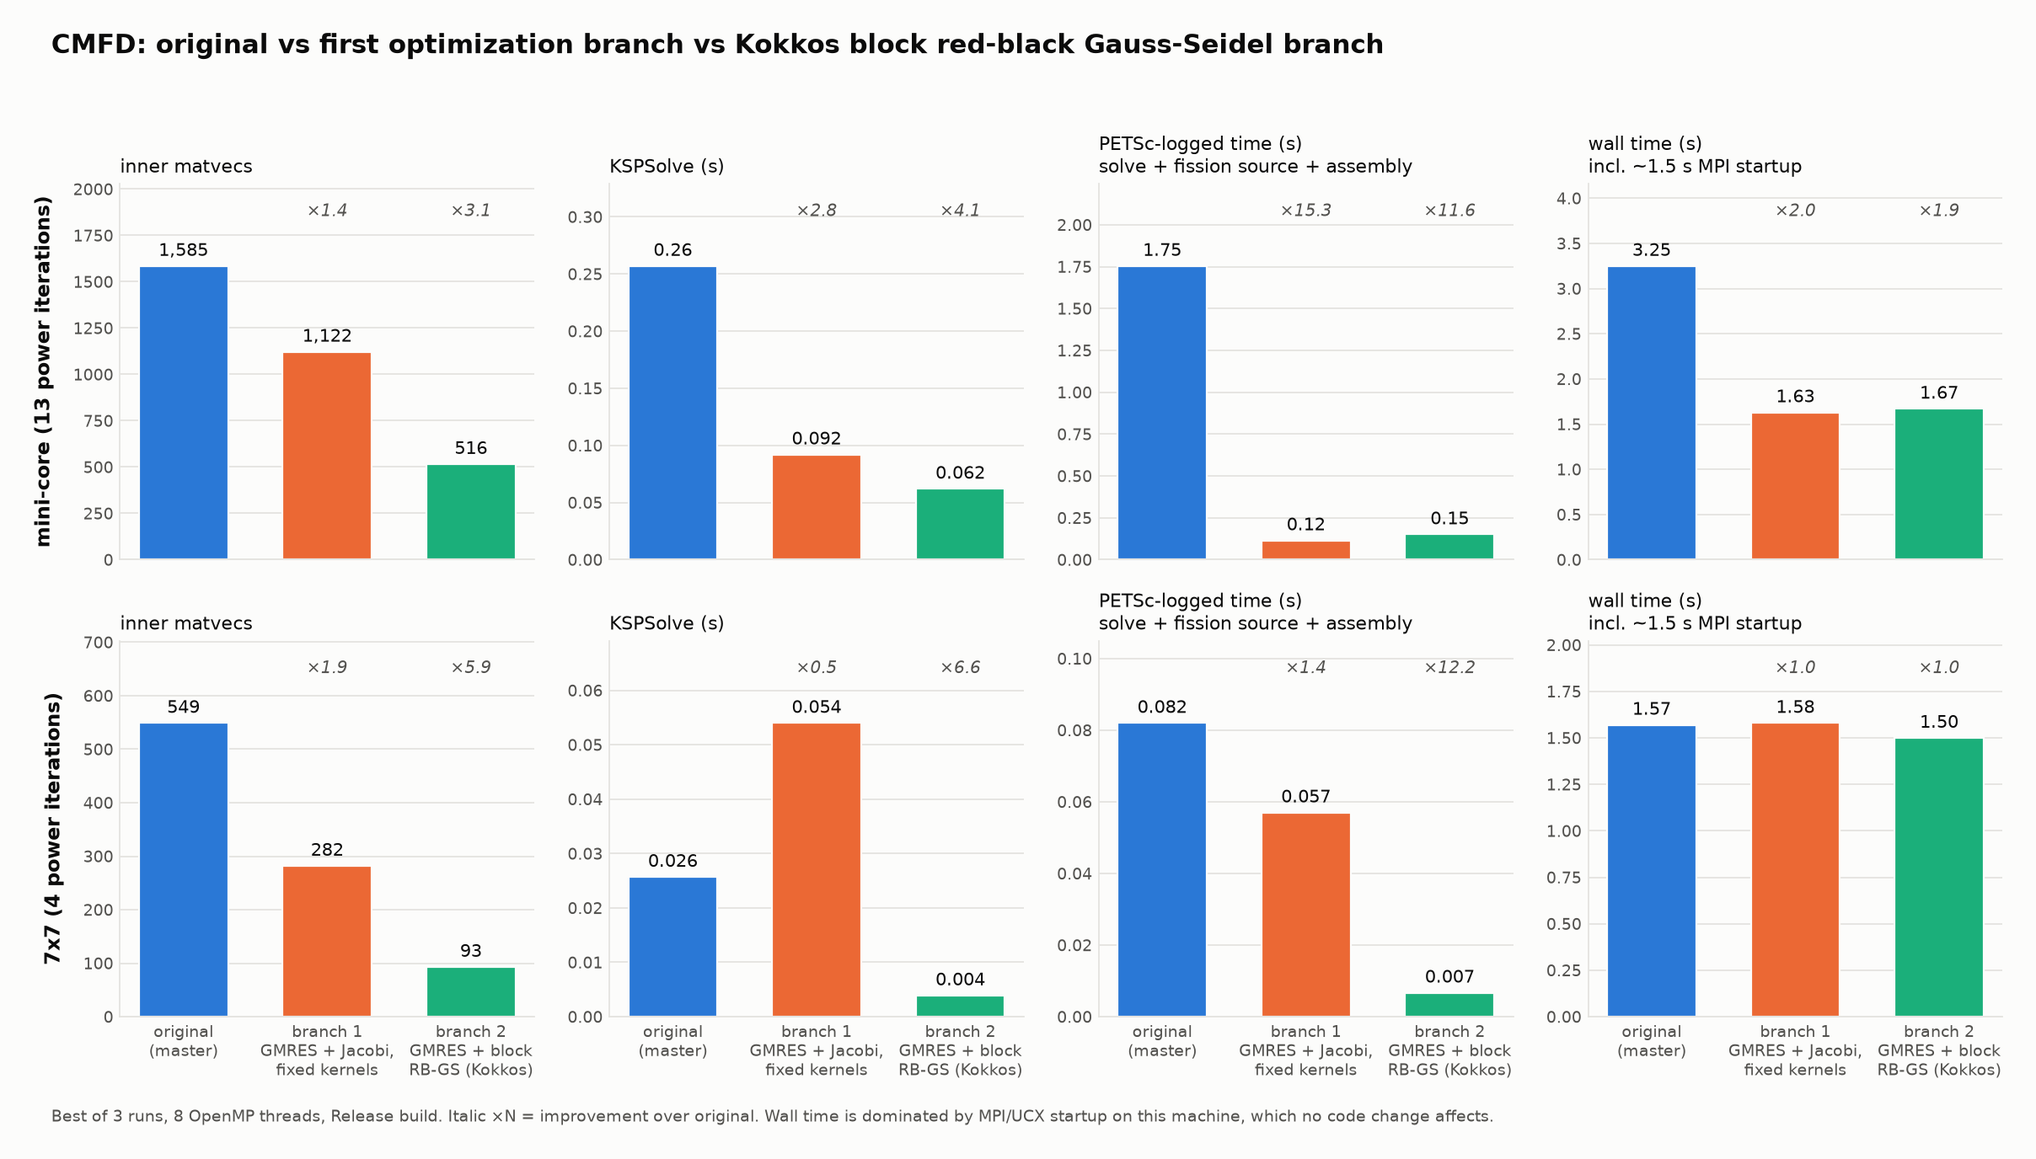
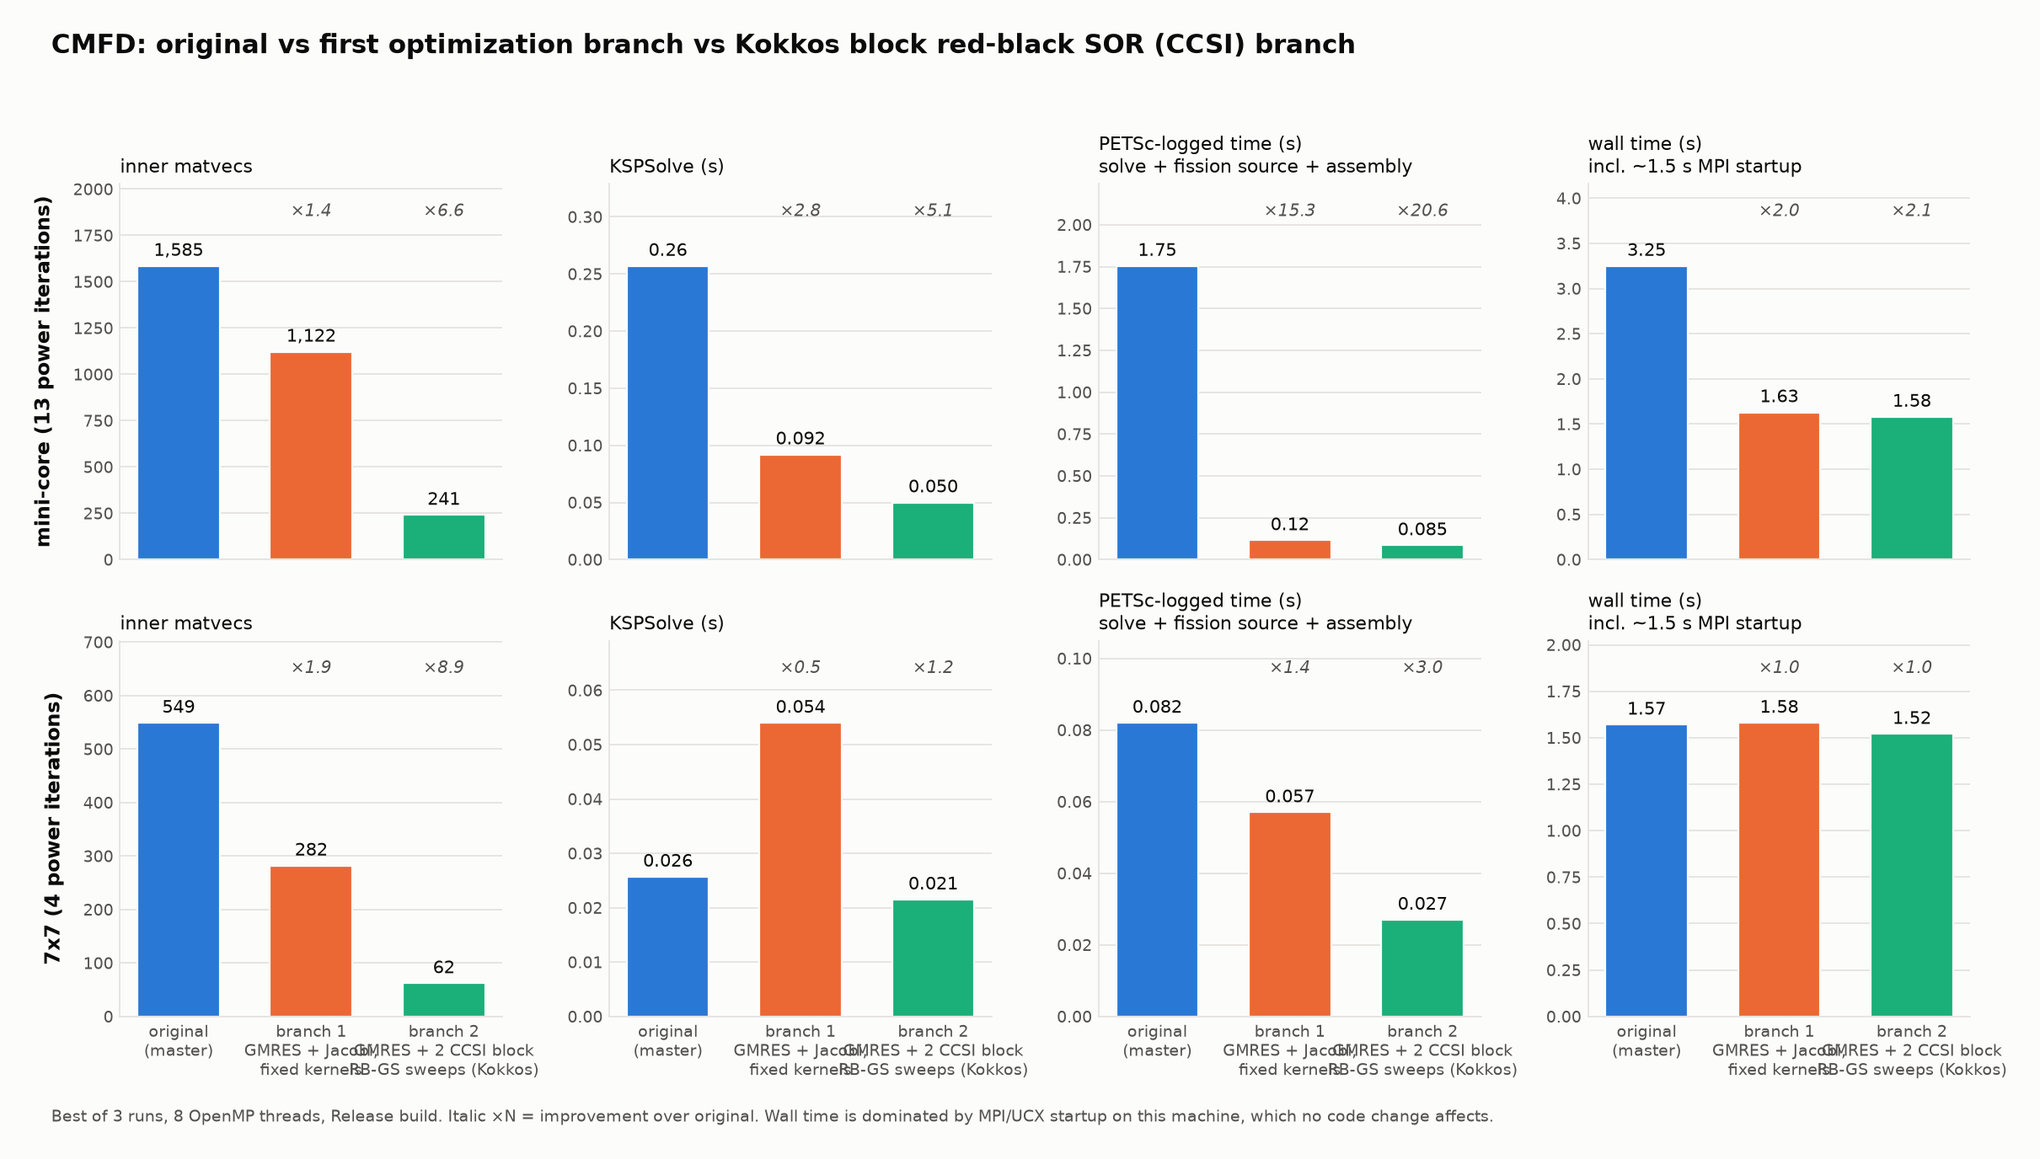
CMFD: CCSI adaptive relaxation for the Kokkos block RB-GS (MPACT RBSOR)
Follows Stimpson & Collins, "Implementation of a Red-Black SOR CMFD
Solver in MPACT" (Trans. ANS 115, 2016): separate red/black relaxation
factors from the cyclic Chebyshev semi-iterative recurrence, driven by a
Jacobi spectral radius estimated at setup from 10 unrelaxed sweeps on the
homogeneous system. Estimated rho_J = 0.977 on mini-core, asymptotic
omega 1.65, matching the manual omega scan. Falls back to a fixed omega
when the block graph needs more than two colors.

Default inner solver is now GMRES + 2 CCSI sweeps: mini-core matvecs
516 -> 241 for the same total sweep count; 10/10 CMFD tests pass.
MPACT-style mode (-ksp_type richardson -ksp_norm_type none -ksp_max_it 1
-pc_kokkosbgs_sweeps N) solves mini-core in 180-300 total sweeps; as in
the paper, too few sweeps per eigenvalue update (10 here) false-converges
the dk-based outer test, 20 or more pass the gold tests.

diff --git a/cmfd/src/KokkosBlockGS.cpp b/cmfd/src/KokkosBlockGS.cpp
@@ -6,6 +6,7 @@
 #include <petscmat.h>
 #include <Kokkos_Core.hpp>
 #include <vector>
+#include <cmath>
 #include <queue>
 #include <algorithm>
 
@@ -21,7 +22,11 @@ using Scalar2DView = Kokkos::View<PetscScalar **, Kokkos::LayoutRight, MemSpace>
 
 struct PC_KokkosBGS {
     PetscInt sweeps = 1;
-    PetscReal omega = 1.0;
+    PetscReal omega = 1.0;       // fixed relaxation factor (used when adaptive is off or ncolors != 2)
+    PetscBool adaptive = PETSC_TRUE; // CCSI red/black relaxation factors (Stimpson & Collins, ANS Trans. 115, 2016)
+    PetscInt rhoSweeps = 10;     // unrelaxed GS sweeps used to estimate the spectral radius
+    PetscReal rhoJ = 0.0;        // estimated Jacobi spectral radius
+    std::vector<PetscReal> omegaRed, omegaBlack; // CCSI schedule, one pair per sweep
 
     PetscInt n = 0, bs = 0, nblocks = 0, ncolors = 0;
     IntView rowPtr, colIdx;      // CSR structure (device copy)
@@ -30,6 +35,60 @@ struct PC_KokkosBGS {
     IntView colorBlocks;         // block indices grouped by color
     std::vector<PetscInt> colorPtr; // host offsets into colorBlocks, size ncolors + 1
 };
+
+// One relaxed block Gauss-Seidel update of all blocks of one color: y_block <- (1-w) y_block + w D^-1 (x - offblock(A) y)
+template <class XView, class YView>
+void color_sweep(const PC_KokkosBGS &ctx, PetscInt color, PetscReal omega, const XView &xv, const YView &yv)
+{
+    const PetscInt bs = ctx.bs;
+    auto rowPtr = ctx.rowPtr; auto colIdx = ctx.colIdx; auto vals = ctx.vals; auto dinv = ctx.dinv;
+    auto colorBlocks = ctx.colorBlocks;
+    const PetscInt begin = ctx.colorPtr[color], end = ctx.colorPtr[color + 1];
+    Kokkos::parallel_for("kokkosbgs: color sweep", Kokkos::RangePolicy<ExecSpace>(begin, end),
+        KOKKOS_LAMBDA(const PetscInt idx)
+    {
+        const PetscInt b = colorBlocks(idx);
+        PetscScalar rhs[MAX_BS];
+        for (int r = 0; r < bs; ++r) {
+            const PetscInt row = b * bs + r;
+            PetscScalar acc = xv(row);
+            for (PetscInt k = rowPtr(row); k < rowPtr(row + 1); ++k) {
+                const PetscInt col = colIdx(k);
+                if (col / bs != b) acc -= vals(k) * yv(col);
+            }
+            rhs[r] = acc;
+        }
+        for (int r = 0; r < bs; ++r) {
+            PetscScalar ynew = 0.0;
+            for (int cc = 0; cc < bs; ++cc) ynew += dinv(b, r * bs + cc) * rhs[cc];
+            const PetscInt row = b * bs + r;
+            yv(row) = (1.0 - omega) * yv(row) + omega * ynew;
+        }
+    });
+}
+
+// Relaxation factors for sweep s (0-based) of an application, per color. With CCSI (two colors) the red
+// and black half-sweeps get the cyclic Chebyshev factors of Eqs. 2-3 in Stimpson & Collins (2016):
+//   w_R^1 = 1, w_B^1 = 1 / (1 - rho_J^2 / 2),
+//   w_R^{i+1} = 1 / (1 - rho_J^2 w_B^i / 4), w_B^{i+1} = 1 / (1 - rho_J^2 w_R^{i+1} / 4),
+// which converge to the optimal SOR factor 2 / (1 + sqrt(1 - rho_J^2)).
+void ensure_omega_schedule(PC_KokkosBGS &ctx, PetscInt sweeps)
+{
+    if ((PetscInt)ctx.omegaRed.size() >= sweeps) return;
+    const PetscReal r2 = ctx.rhoJ * ctx.rhoJ;
+    if (ctx.omegaRed.empty()) {
+        ctx.omegaRed.push_back(1.0);
+        ctx.omegaBlack.push_back(1.0 / (1.0 - 0.5 * r2));
+    }
+    while ((PetscInt)ctx.omegaRed.size() < sweeps) {
+        const PetscReal wR = 1.0 / (1.0 - 0.25 * r2 * ctx.omegaBlack.back());
+        const PetscReal wB = 1.0 / (1.0 - 0.25 * r2 * wR);
+        ctx.omegaRed.push_back(wR);
+        ctx.omegaBlack.push_back(wB);
+    }
+}
+
+inline bool use_ccsi(const PC_KokkosBGS &ctx) { return ctx.adaptive && ctx.ncolors == 2; }
 
 PetscErrorCode PCSetUp_KokkosBGS(PC pc)
 {
@@ -153,6 +212,36 @@ PetscErrorCode PCSetUp_KokkosBGS(PC pc)
         });
         Kokkos::fence();
     }
+
+    // Estimate the Jacobi spectral radius for the CCSI relaxation factors. Unrelaxed red-black block GS on
+    // the homogeneous system A e = 0 from a constant start decays like rho_GS^k, and for a two-color
+    // (consistently ordered) system rho_J = sqrt(rho_GS). As in MPACT the estimate uses the ratio of the
+    // last two correction norms after `rhoSweeps` sweeps. Done once per matrix; only setup needs reductions.
+    ctx->omegaRed.clear();
+    ctx->omegaBlack.clear();
+    ctx->rhoJ = 0.0;
+    if (use_ccsi(*ctx)) {
+        ScalarView e("kokkosbgs rho estimate", ctx->n), zero("kokkosbgs zero rhs", ctx->n);
+        Kokkos::deep_copy(e, 1.0);
+        Kokkos::deep_copy(zero, 0.0);
+        auto norm2 = [&](const ScalarView &v) {
+            PetscReal sum = 0.0;
+            Kokkos::parallel_reduce("kokkosbgs: norm", Kokkos::RangePolicy<ExecSpace>(0, ctx->n),
+                KOKKOS_LAMBDA(const PetscInt i, PetscReal &acc) { acc += v(i) * v(i); }, sum);
+            return std::sqrt(sum);
+        };
+        PetscReal prev = norm2(e), rhoGS = 0.0;
+        for (PetscInt s = 0; s < ctx->rhoSweeps; ++s) {
+            for (PetscInt c = 0; c < ctx->ncolors; ++c) color_sweep(*ctx, c, 1.0, zero, e);
+            const PetscReal cur = norm2(e);
+            if (prev > 0.0) rhoGS = cur / prev;
+            prev = cur;
+        }
+        rhoGS = std::min(std::max(rhoGS, 0.0), 0.999999);
+        ctx->rhoJ = std::sqrt(rhoGS);
+        PetscCall(PetscInfo(pc, "kokkosbgs: estimated rho_GS = %g, rho_J = %g, asymptotic omega = %g\n",
+                            (double)rhoGS, (double)ctx->rhoJ, (double)(2.0 / (1.0 + std::sqrt(1.0 - rhoGS)))));
+    }
     PetscFunctionReturn(PETSC_SUCCESS);
 }
 
@@ -166,37 +255,17 @@ PetscErrorCode PCApply_KokkosBGS(PC pc, Vec x, Vec y)
     PetscCall(VecGetKokkosView(x, &xv));
     PetscCall(VecGetKokkosViewWrite(y, &yv));
 
-    // y = 0; then `sweeps` block-SOR sweeps on A y = x. A fixed number of sweeps from zero is a fixed
-    // linear operator, so this is a valid (non-symmetric) preconditioner for GMRES/BiCGStab.
+    // y = 0; then `sweeps` block-SOR sweeps on A y = x. A fixed number of sweeps from zero (with a
+    // predetermined relaxation schedule) is a fixed linear operator, so this is a valid (non-symmetric)
+    // preconditioner for GMRES/BiCGStab. With -ksp_type richardson -ksp_max_it 1 it is the whole inner
+    // solve, and the CCSI schedule then runs over all `sweeps` half-sweep pairs as in MPACT.
     Kokkos::deep_copy(yv, 0.0);
-    const PetscInt bs = ctx->bs;
-    const PetscReal omega = ctx->omega;
-    auto rowPtr = ctx->rowPtr; auto colIdx = ctx->colIdx; auto vals = ctx->vals; auto dinv = ctx->dinv;
-    auto colorBlocks = ctx->colorBlocks;
+    const bool ccsi = use_ccsi(*ctx);
+    if (ccsi) ensure_omega_schedule(*ctx, ctx->sweeps);
     for (PetscInt s = 0; s < ctx->sweeps; ++s) {
         for (PetscInt c = 0; c < ctx->ncolors; ++c) {
-            const PetscInt begin = ctx->colorPtr[c], end = ctx->colorPtr[c + 1];
-            Kokkos::parallel_for("kokkosbgs: color sweep", Kokkos::RangePolicy<ExecSpace>(begin, end),
-                KOKKOS_LAMBDA(const PetscInt idx)
-            {
-                const PetscInt b = colorBlocks(idx);
-                PetscScalar rhs[MAX_BS];
-                for (int r = 0; r < bs; ++r) {
-                    const PetscInt row = b * bs + r;
-                    PetscScalar acc = xv(row);
-                    for (PetscInt k = rowPtr(row); k < rowPtr(row + 1); ++k) {
-                        const PetscInt col = colIdx(k);
-                        if (col / bs != b) acc -= vals(k) * yv(col);
-                    }
-                    rhs[r] = acc;
-                }
-                for (int r = 0; r < bs; ++r) {
-                    PetscScalar ynew = 0.0;
-                    for (int cc = 0; cc < bs; ++cc) ynew += dinv(b, r * bs + cc) * rhs[cc];
-                    const PetscInt row = b * bs + r;
-                    yv(row) = (1.0 - omega) * yv(row) + omega * ynew;
-                }
-            });
+            const PetscReal omega = ccsi ? (c == 0 ? ctx->omegaRed[s] : ctx->omegaBlack[s]) : ctx->omega;
+            color_sweep(*ctx, c, omega, xv, yv);
         }
     }
     Kokkos::fence();
@@ -212,7 +281,9 @@ PetscErrorCode PCSetFromOptions_KokkosBGS(PC pc, PetscOptionItems PetscOptionsOb
     PetscFunctionBeginUser;
     PetscOptionsHeadBegin(PetscOptionsObject, "Kokkos block red-black Gauss-Seidel options");
     PetscCall(PetscOptionsInt("-pc_kokkosbgs_sweeps", "Number of block SOR sweeps per application", "", ctx->sweeps, &ctx->sweeps, nullptr));
-    PetscCall(PetscOptionsReal("-pc_kokkosbgs_omega", "SOR relaxation factor", "", ctx->omega, &ctx->omega, nullptr));
+    PetscCall(PetscOptionsBool("-pc_kokkosbgs_adaptive", "Use CCSI red/black relaxation factors from an estimated spectral radius", "", ctx->adaptive, &ctx->adaptive, nullptr));
+    PetscCall(PetscOptionsReal("-pc_kokkosbgs_omega", "Fixed SOR relaxation factor (when adaptive is off)", "", ctx->omega, &ctx->omega, nullptr));
+    PetscCall(PetscOptionsInt("-pc_kokkosbgs_rho_sweeps", "Unrelaxed sweeps used to estimate the spectral radius", "", ctx->rhoSweeps, &ctx->rhoSweeps, nullptr));
     PetscOptionsHeadEnd();
     PetscFunctionReturn(PETSC_SUCCESS);
 }
@@ -224,8 +295,14 @@ PetscErrorCode PCView_KokkosBGS(PC pc, PetscViewer viewer)
     PetscFunctionBeginUser;
     PetscCall(PetscObjectTypeCompare((PetscObject)viewer, PETSCVIEWERASCII, &isascii));
     if (isascii) {
-        PetscCall(PetscViewerASCIIPrintf(viewer, "  Kokkos block red-black Gauss-Seidel: block size %d, %d colors, %d sweeps, omega %g\n",
-                                         (int)ctx->bs, (int)ctx->ncolors, (int)ctx->sweeps, (double)ctx->omega));
+        if (use_ccsi(*ctx)) {
+            ensure_omega_schedule(*ctx, ctx->sweeps);
+            PetscCall(PetscViewerASCIIPrintf(viewer, "  Kokkos block red-black Gauss-Seidel: block size %d, %d colors, %d sweeps, CCSI relaxation (rho_J = %g, omega_B^1 = %g, omega_R^%d = %g)\n",
+                                             (int)ctx->bs, (int)ctx->ncolors, (int)ctx->sweeps, (double)ctx->rhoJ, (double)ctx->omegaBlack[0], (int)ctx->sweeps, (double)ctx->omegaRed.back()));
+        } else {
+            PetscCall(PetscViewerASCIIPrintf(viewer, "  Kokkos block red-black Gauss-Seidel: block size %d, %d colors, %d sweeps, fixed omega %g\n",
+                                             (int)ctx->bs, (int)ctx->ncolors, (int)ctx->sweeps, (double)ctx->omega));
+        }
     }
     PetscFunctionReturn(PETSC_SUCCESS);
 }

diff --git a/perf/tools/cmfd_solver_comparison_chart.py b/perf/tools/cmfd_solver_comparison_chart.py
@@ -4,24 +4,24 @@ import matplotlib.pyplot as plt
 import numpy as np
 INK, INK2, SURF, GRID = "#0b0b0b", "#52514e", "#fcfcfb", "#e4e3df"
 COLS = ["#2a78d6", "#eb6834", "#1baf7a"]
-versions = ["original\n(master)", "branch 1\nGMRES + Jacobi,\nfixed kernels", "branch 2\nGMRES + block\nRB-GS (Kokkos)"]
+versions = ["original\n(master)", "branch 1\nGMRES + Jacobi,\nfixed kernels", "branch 2\nGMRES + 2 CCSI block\nRB-GS sweeps (Kokkos)"]
 # best of 3 runs, 8 threads, same machine/session
 data = {
  "mini-core (13 power iterations)": {
-   "inner matvecs":                 [1585, 1122, 516],
-   "KSPSolve (s)":                  [0.257, 0.092, 0.062],
-   "PETSc-logged time (s)\nsolve + fission source + assembly": [1.754, 0.115, 0.151],
-   "wall time (s)\nincl. ~1.5 s MPI startup": [3.25, 1.63, 1.67],
+   "inner matvecs":                 [1585, 1122, 241],
+   "KSPSolve (s)":                  [0.257, 0.092, 0.050],
+   "PETSc-logged time (s)\nsolve + fission source + assembly": [1.754, 0.115, 0.085],
+   "wall time (s)\nincl. ~1.5 s MPI startup": [3.25, 1.63, 1.58],
  },
  "7x7 (4 power iterations)": {
-   "inner matvecs":                 [549, 282, 93],
-   "KSPSolve (s)":                  [0.0257, 0.054, 0.0039],
-   "PETSc-logged time (s)\nsolve + fission source + assembly": [0.082, 0.057, 0.0067],
-   "wall time (s)\nincl. ~1.5 s MPI startup": [1.57, 1.58, 1.50],
+   "inner matvecs":                 [549, 282, 62],
+   "KSPSolve (s)":                  [0.0257, 0.054, 0.0215],
+   "PETSc-logged time (s)\nsolve + fission source + assembly": [0.082, 0.057, 0.027],
+   "wall time (s)\nincl. ~1.5 s MPI startup": [1.57, 1.58, 1.52],
  },
 }
 fig, axes = plt.subplots(2, 4, figsize=(15, 8.2), facecolor=SURF)
-fig.suptitle("CMFD: original vs first optimization branch vs Kokkos block red-black Gauss-Seidel branch",
+fig.suptitle("CMFD: original vs first optimization branch vs Kokkos block red-black SOR (CCSI) branch",
              fontsize=14, color=INK, fontweight="bold", x=0.02, ha="left", y=0.99)
 for r, (case, metrics) in enumerate(data.items()):
     for c, (metric, vals) in enumerate(metrics.items()):

diff --git a/cmfd/src/KokkosBlockGS.hpp b/cmfd/src/KokkosBlockGS.hpp
@@ -7,7 +7,13 @@
 //
 // Each block's diagonal sub-matrix is inverted once in PCSetUp; one sweep updates all blocks of one color
 // at a time (colors come from a greedy coloring of the block graph, two colors on a Cartesian mesh), each
-// block being an independent dense (bs x bs) solve. Options:
-//   -pc_type kokkosbgs -pc_kokkosbgs_sweeps <n> (default 1) -pc_kokkosbgs_omega <w> (default 1.0)
-// With -ksp_type richardson it becomes the plain stationary block-SOR iteration.
+// block being an independent dense (bs x bs) solve. Relaxation follows MPACT's RBSOR (Stimpson & Collins,
+// "Implementation of a Red-Black SOR CMFD Solver in MPACT", Trans. ANS 115, 2016): cyclic Chebyshev
+// semi-iterative (CCSI) factors, different for the red and black half-sweeps, from a Jacobi spectral radius
+// estimated with unrelaxed sweeps at setup. Options:
+//   -pc_type kokkosbgs -pc_kokkosbgs_sweeps <n> (default 1)
+//   -pc_kokkosbgs_adaptive <bool> (default true; falls back to the fixed omega when the graph needs > 2 colors)
+//   -pc_kokkosbgs_omega <w> (fixed factor, default 1.0) -pc_kokkosbgs_rho_sweeps <n> (default 10)
+// With -ksp_type richardson -ksp_max_it 1 -pc_kokkosbgs_sweeps N it is MPACT's inner iteration: N RBSOR
+// sweeps per eigenvalue update.
 PetscErrorCode PCRegisterKokkosBlockGS();

diff --git a/cmfd/src/PetscEigenSolver.cpp b/cmfd/src/PetscEigenSolver.cpp
@@ -26,6 +26,9 @@ PetscEigenSolver::PetscEigenSolver(AssemblerPtr&& _assemblerPtr, PetscScalar ini
     PetscCallCXXAbort(PETSC_COMM_SELF, PCRegisterKokkosBlockGS());
     PetscCallCXXAbort(PETSC_COMM_SELF, KSPGetPC(ksp, &pc));
     PetscCallCXXAbort(PETSC_COMM_SELF, PCSetType(pc, "kokkosbgs"));
+    // Two CCSI-relaxed sweeps per application: same total sweeps as one sweep per GMRES iteration but
+    // half the Krylov iterations (mini-core: 241 vs 516 matvecs), i.e. half the reductions on a GPU.
+    PetscCallCXXAbort(PETSC_COMM_SELF, PetscOptionsSetValue(nullptr, "-pc_kokkosbgs_sweeps", "2"));
 
     PetscCallCXXAbort(PETSC_COMM_SELF, KSPSetFromOptions(ksp));
 

diff --git a/perf/CMFD_SOLVER.md b/perf/CMFD_SOLVER.md
@@ -19,8 +19,8 @@ each cell's group-by-group block solved directly?
      `-ksp_norm_type none -ksp_max_it N` it is "N sweeps per outer iteration with no residual check",
      i.e. exactly what a standalone Kokkos inner solver would do. That is how the PETSc-free variant was
      measured without writing a second driver.
-3. **New default**: GMRES + one `kokkosbgs` sweep (`PetscEigenSolver.cpp`). Everything else is unchanged
-   and every variant below is selectable from the command line (`PETSC_OPTIONS=...`).
+3. **New default**: GMRES + two CCSI-relaxed `kokkosbgs` sweeps (`PetscEigenSolver.cpp`). Everything else is
+   unchanged and every variant below is selectable from the command line (`PETSC_OPTIONS=...`).
 
 ## Measurements
 
@@ -57,6 +57,40 @@ and 68 (2 sweeps), Richardson block SOR 247 at omega 1.7 / 279 at 1.8, 10 fixed 
 
 CMFD test suite with the new default: 10/10 pass in 17 s (37 s with Jacobi, 498 s originally).
 
+## Adaptive relaxation (CCSI), after Stimpson & Collins 2016
+
+`doc/trans_v115_n1_pp1252-1255.pdf` describes MPACT's RBSOR: red and black half-sweeps with different
+relaxation factors from the cyclic Chebyshev semi-iterative scheme (w_R^1 = 1, w_B^1 = 1/(1 - rho_J^2/2),
+then w_R^{i+1} = 1/(1 - rho_J^2 w_B^i/4), w_B^{i+1} = 1/(1 - rho_J^2 w_R^{i+1}/4)), with the Jacobi spectral
+radius estimated from the first 10 unrelaxed inner iterations, and a fixed cap of 50-150 inner iterations per
+eigenvalue update. `kokkosbgs` now does the same (`-pc_kokkosbgs_adaptive`, default on): rho_GS is estimated
+at setup from 10 unrelaxed sweeps on A e = 0, rho_J = sqrt(rho_GS), and the CCSI schedule is applied across
+the sweeps of each application. Estimated rho_J: 0.9765 (mini-core), 0.9795 (7x7); the asymptotic optimal
+omega 2/(1 + sqrt(1 - rho_J^2)) = 1.65 agrees with the manual scan above (best between 1.7 and 1.8). The
+scheme is only valid for two colors; with more colors the fixed omega is used (the paper notes the same
+restriction for rotationally symmetric boundaries).
+
+mini-core, total work for the whole eigenvalue solve:
+
+| Inner solver | outer its | matvecs | sweeps | KSPSolve (s) | gold tests |
+|---|---|---|---|---|---|
+| GMRES + 1 block RB-GS sweep, omega 1 | 13 | 516 | 530 | 0.089 | pass |
+| GMRES + 1 CCSI sweep | 13 | 520 | 534 | - | pass |
+| **GMRES + 2 CCSI sweeps (new branch default)** | 13 | **241** | 510 | **0.050** | pass |
+| Richardson, fixed omega 1.8, to tolerance | 13 | 940 | 954 | 0.120 | pass |
+| MPACT-style: 10 CCSI sweeps per eigenvalue update | 17 | - | **180** | 0.058 | **fail** (false convergence, all 3) |
+| MPACT-style: 20 CCSI sweeps per eigenvalue update | 14 | - | 300 | 0.040 | pass |
+| MPACT-style: 30 CCSI sweeps per eigenvalue update | 13 | - | 420 | 0.022 | pass |
+| MPACT-style: 10 sweeps, fixed omega 1.8 | 18 | - | 190 | 0.017 | fail (1 of 3) |
+
+7x7 shows the same pattern (GMRES + 2 CCSI sweeps: 62 matvecs; MPACT-style 10/20/30 sweeps: 130/160/180
+sweeps, 20 sweeps needed for the gold test). CCSI buys nothing when the preconditioner is a single sweep (GMRES
+absorbs the relaxation), and roughly matches a hand-tuned fixed omega in the MPACT-style mode, but it needs
+no tuning, which is the point. The paper's observation about the inner-iteration cap reproduces exactly: too
+few sweeps per update makes consecutive keff iterates agree before keff is right (their 25-iteration case was
+150 pcm off at a 1e-6 criterion; here 10 sweeps fail the 1e-7 gold tests, 20 pass), so a standalone solver
+needs either enough sweeps or a convergence test on the fission source / residual rather than on dk alone.
+
 ## Conclusions
 
 - **The block structure alone is not the lever.** Point-block Jacobi, i.e. exactly inverting each cell's 7x7
@@ -86,6 +120,7 @@ same interface for the multi-rank case; the assembler and fission-source kernels
 ## Figure
 
 `cmfd_solver_comparison.png` compares original master, the first optimization branch (GMRES + Jacobi with the
-fixed fission kernel and nonzero initial guess) and this branch, best of 3 runs each. Sub-0.1 s timings on this
+fixed fission kernel and nonzero initial guess) and this branch's default (GMRES + 2 CCSI block RB-GS sweeps),
+best of 3 runs each. Sub-0.1 s timings on this
 WSL machine jitter by 2-10x between runs (OpenMP wake-up latency), so treat the matvec counts as the reliable
 column and the small-case times as indicative only.
